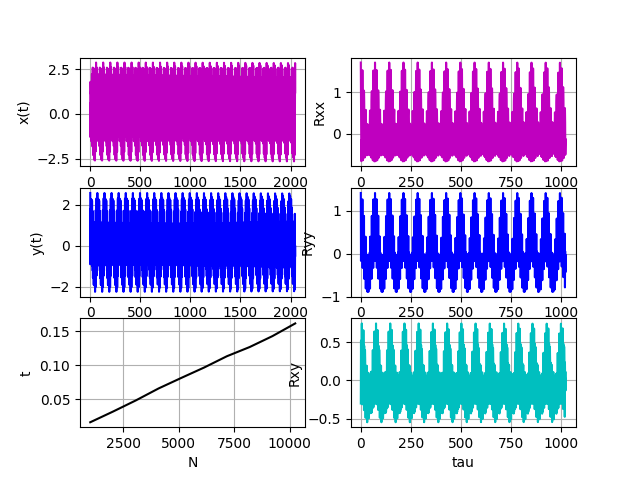
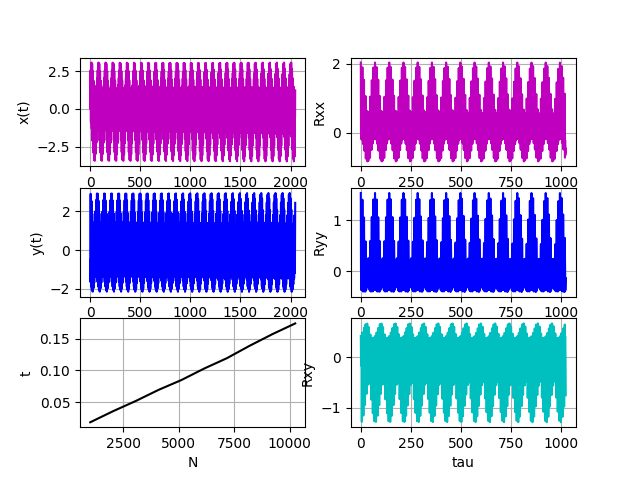
added Lab03

diff --git a/Lab03/main.py b/Lab03/main.py
@@ -1,0 +1,112 @@
+import numpy as np
+import matplotlib.pyplot as plt
+import random
+import time
+
+
+TICKS = 1024
+HARMONICS = 8
+FREQUENCY = 1200
+STEP = FREQUENCY / HARMONICS
+
+
+class Harmonic:
+    def __init__(self, frequency, ticks):
+        self.amplitude = random.uniform(0.0, 1.0)
+        self.phase = random.uniform(0.0, 2*np.pi)
+        current_xs = [0 for _ in range(ticks)]
+        current_xs = [self.amplitude*np.sin(frequency*t+self.phase) for t in range(ticks)]
+        self.xs = current_xs
+
+
+class Signal:
+    def __init__(self, harmonic_amount, ticks, step):
+        current_sum = [0 for _ in range(ticks)]
+        start = time.time()
+        for i in range(1, harmonic_amount+1):
+            current_harmonic = Harmonic(step*i, ticks)
+            current_sum = [current_sum[t]+current_harmonic.xs[t] for t in range(ticks)]
+        self.elapsed_time = time.time() - start
+        self.xss = current_sum
+        self.ts = [t for t in range(ticks)]
+
+
+def generate_signal(harmonic_amount, ticks, step):
+    return Signal(harmonic_amount, ticks, step)
+
+
+def calc_mean(signal, ticks):
+    # start = time.time()
+    mean = sum(signal.xss) / ticks
+    # elapsedTime = time.time() - start
+    print("Mean = {}".format(mean))
+    # print("Elapsed time for mean calculation = {}".format(elapsedTime))
+    # print("----------------------------------------------------------")
+    return mean
+
+
+def calc_dispertion(signal, mean, ticks):
+    # start = time.time()
+    dispertion = sum(((x-mean)*(x-mean)) for x in signal.xss) / (ticks-1)
+    # elapsedTime = time.time() - start
+    print("Dispertion = {}".format(dispertion))
+    # print("Elapsed time for dispertion calculation = {}".format(elapsedTime))
+    print('----------------------------------------------------------')
+
+
+def calc_complexity(num):
+    times = []
+    for i in range(1, num+1):
+        signal = generate_signal(HARMONICS, TICKS*i, STEP)
+        start = time.time()
+        calc_DFT(signal, TICKS*i)
+        elapsed_time = time.time() - start + signal.elapsed_time
+        times.append(elapsed_time)
+    nums = [TICKS*i for i in range(1, num+1)]
+    return times, nums
+
+
+def calc_DFT(signal, ticks):
+    re = []
+    im = []
+    for p in range(ticks-1):
+        sum_re = 0
+        sum_im = 0
+        for k in range(ticks-1):
+            sum_re += signal.xss[k]*np.cos(2*np.pi/ticks*p*k)
+            sum_im += signal.xss[k]*np.sin(2*np.pi/ticks*p*k)
+        re.append(sum_re)
+        im.append(sum_im)
+    return np.sqrt([((re[i]*re[i])+(im[i]*im[i])) for i in range(ticks-1)]), \
+            [p for p in range(ticks-1)]
+
+
+signal_x = generate_signal(HARMONICS, TICKS, STEP)
+
+mean_x = calc_mean(signal_x, TICKS)
+calc_dispertion(signal_x, mean_x, TICKS)
+fourier_x, ps = calc_DFT(signal_x, TICKS)
+compl_t, compl_n = calc_complexity(5)
+
+
+plt.subplot(3, 1, 1)
+plt.plot(signal_x.ts, signal_x.xss, 'k')
+plt.xlabel('t')
+plt.ylabel('x(t)')
+plt.grid(True)
+
+plt.subplot(3, 1, 2)
+plt.plot(ps, fourier_x, 'b')
+plt.xlabel('p')
+plt.ylabel('F(p)')
+plt.grid(True)
+
+plt.subplot(3, 1, 3)
+plt.plot(compl_n, compl_t, 'c')
+plt.xlabel('N')
+plt.ylabel('t')
+plt.grid(True)
+
+
+plt.savefig('fig.png')
+plt.show()
